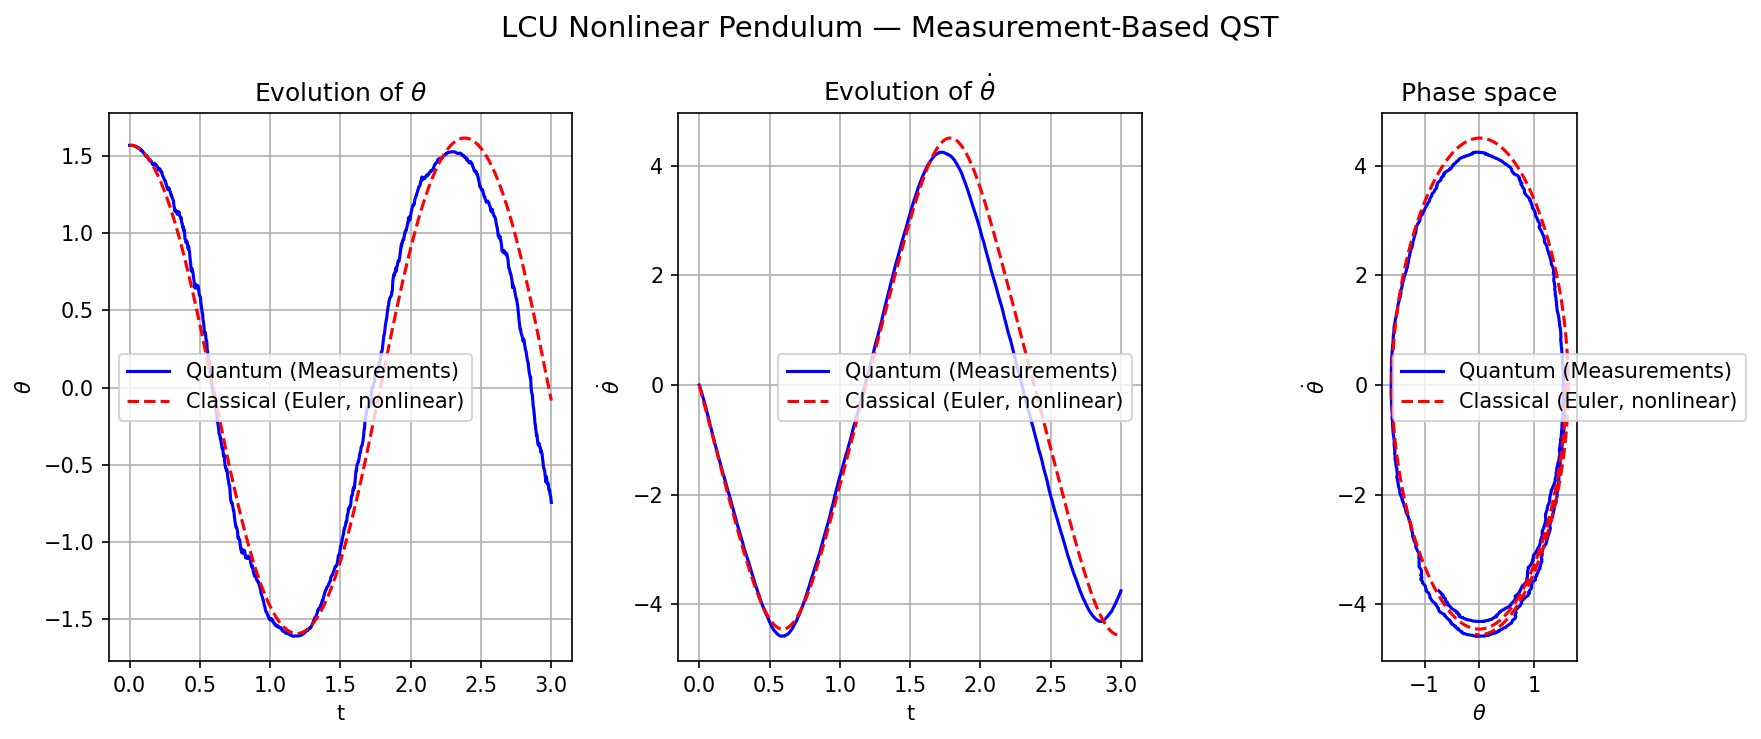
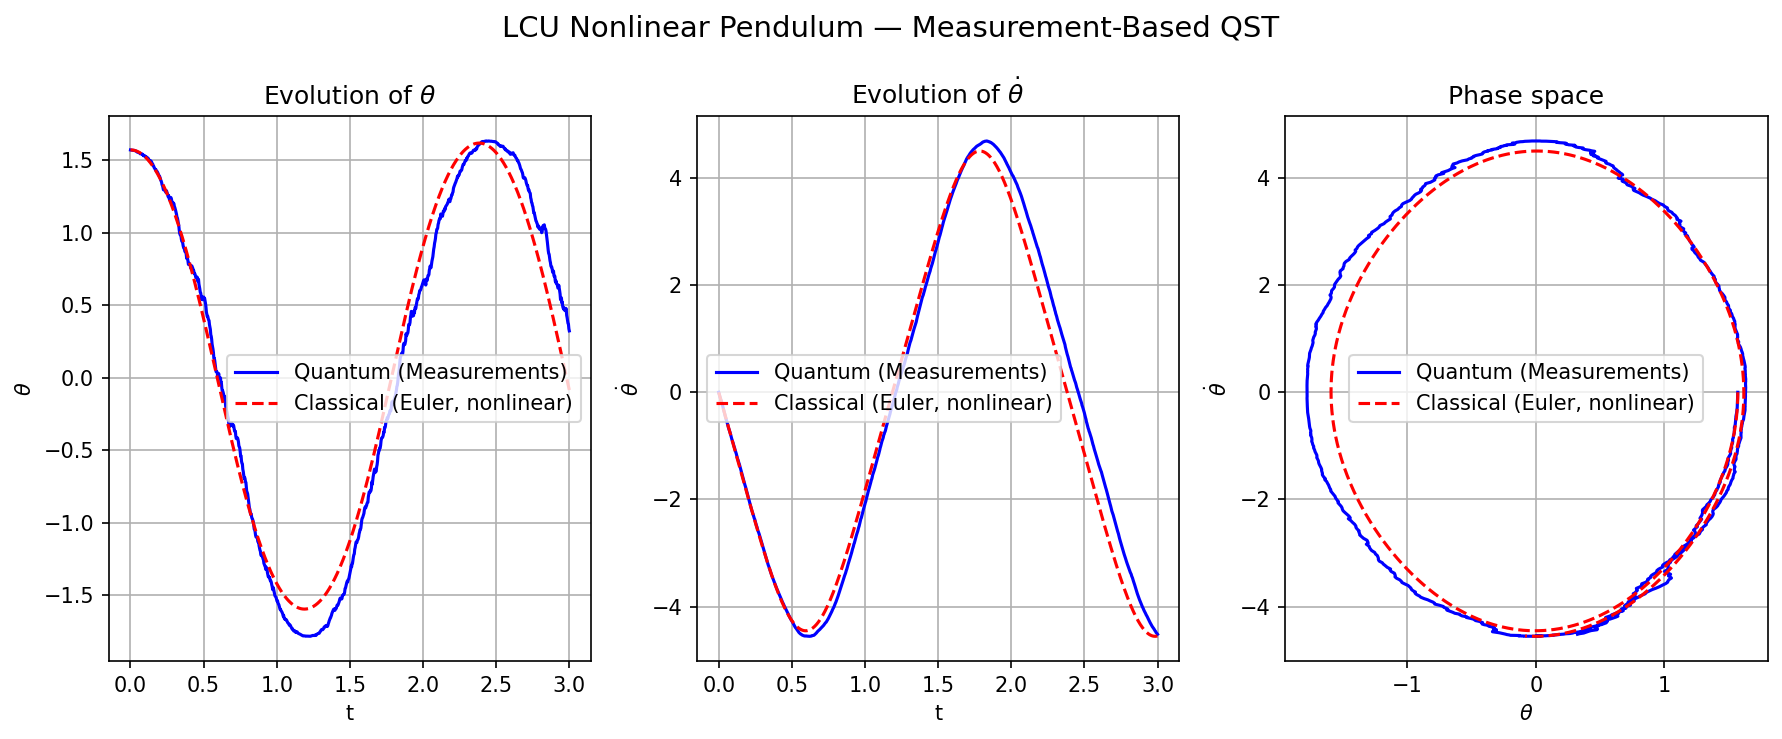
synchronize simulation times across all pendulum solvers and regenerate figures

diff --git a/pendulum/rotations_linear/rotations_linear_statevector.py b/pendulum/rotations_linear/rotations_linear_statevector.py
@@ -28,11 +28,10 @@ from pendulum.plot_results import plot_pendulum_comparison
 # Parameters
 # ---------------------------------------------------------------------------
 OMEGA_0 = 9.8           # Frequency (sqrt(g/l))
-EPSILON = 0.01          # Time step (dt)
+EPSILON = 0.001          # Time step (dt)
 X0 = np.pi / 2          # Initial position
 Y0 = 0.0                # Initial scaled velocity
-N_QUBITS = 12           
-N_STEPS = 2**(N_QUBITS - 1)
+N_STEPS = 5000
 
 FIGURE_PATH = os.path.join(
     os.path.dirname(__file__), "figures", "rotation_linear_sv.png"

diff --git a/pendulum/rotations_linear/rotations_linear_measurements.py b/pendulum/rotations_linear/rotations_linear_measurements.py
@@ -29,11 +29,10 @@ from pendulum.plot_results import plot_pendulum_comparison
 # Parameters
 # ---------------------------------------------------------------------------
 OMEGA_0 = 9.8           # Frequency (sqrt(g/l))
-EPSILON = 0.01          # Time step (dt)
+EPSILON = 0.001          # Time step (dt)
 X0 = np.pi / 2          # Initial position
 Y0 = 0.0                # Initial scaled velocity
-N_QUBITS = 12           
-N_STEPS = 2**(N_QUBITS - 1)
+N_STEPS = 5000
 SHOTS = 25_000
 
 FIGURE_PATH = os.path.join(
